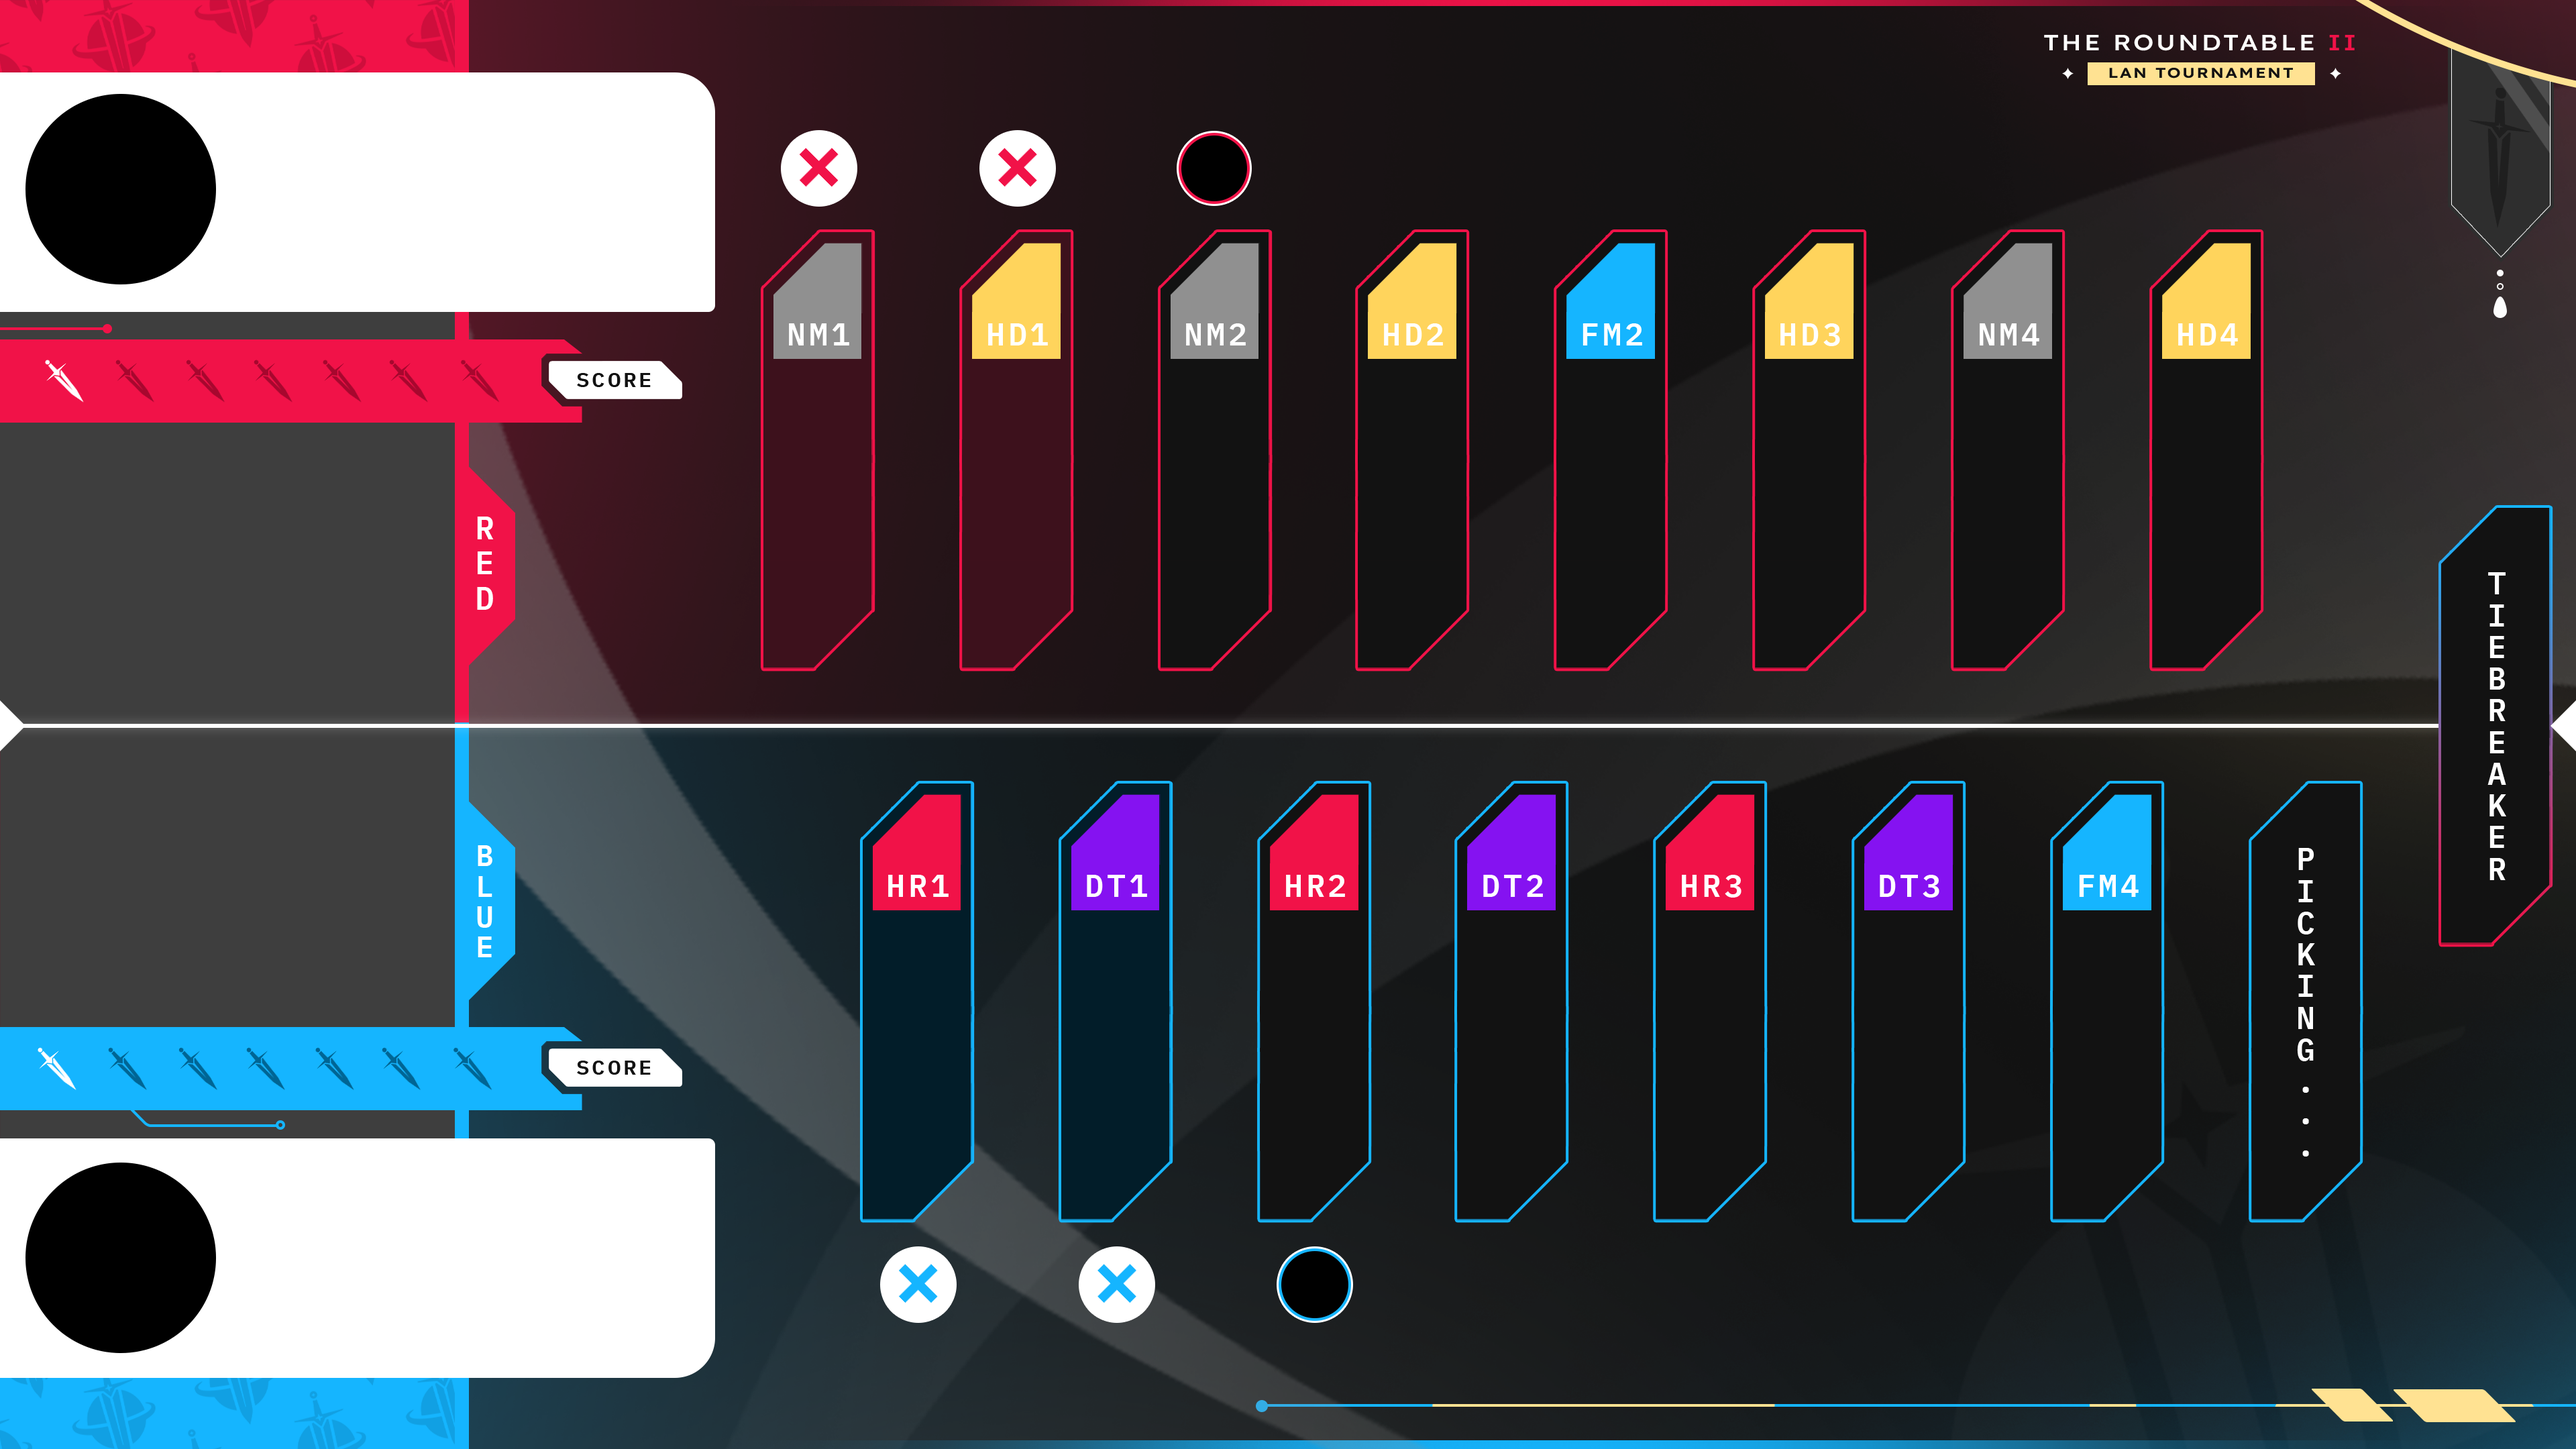
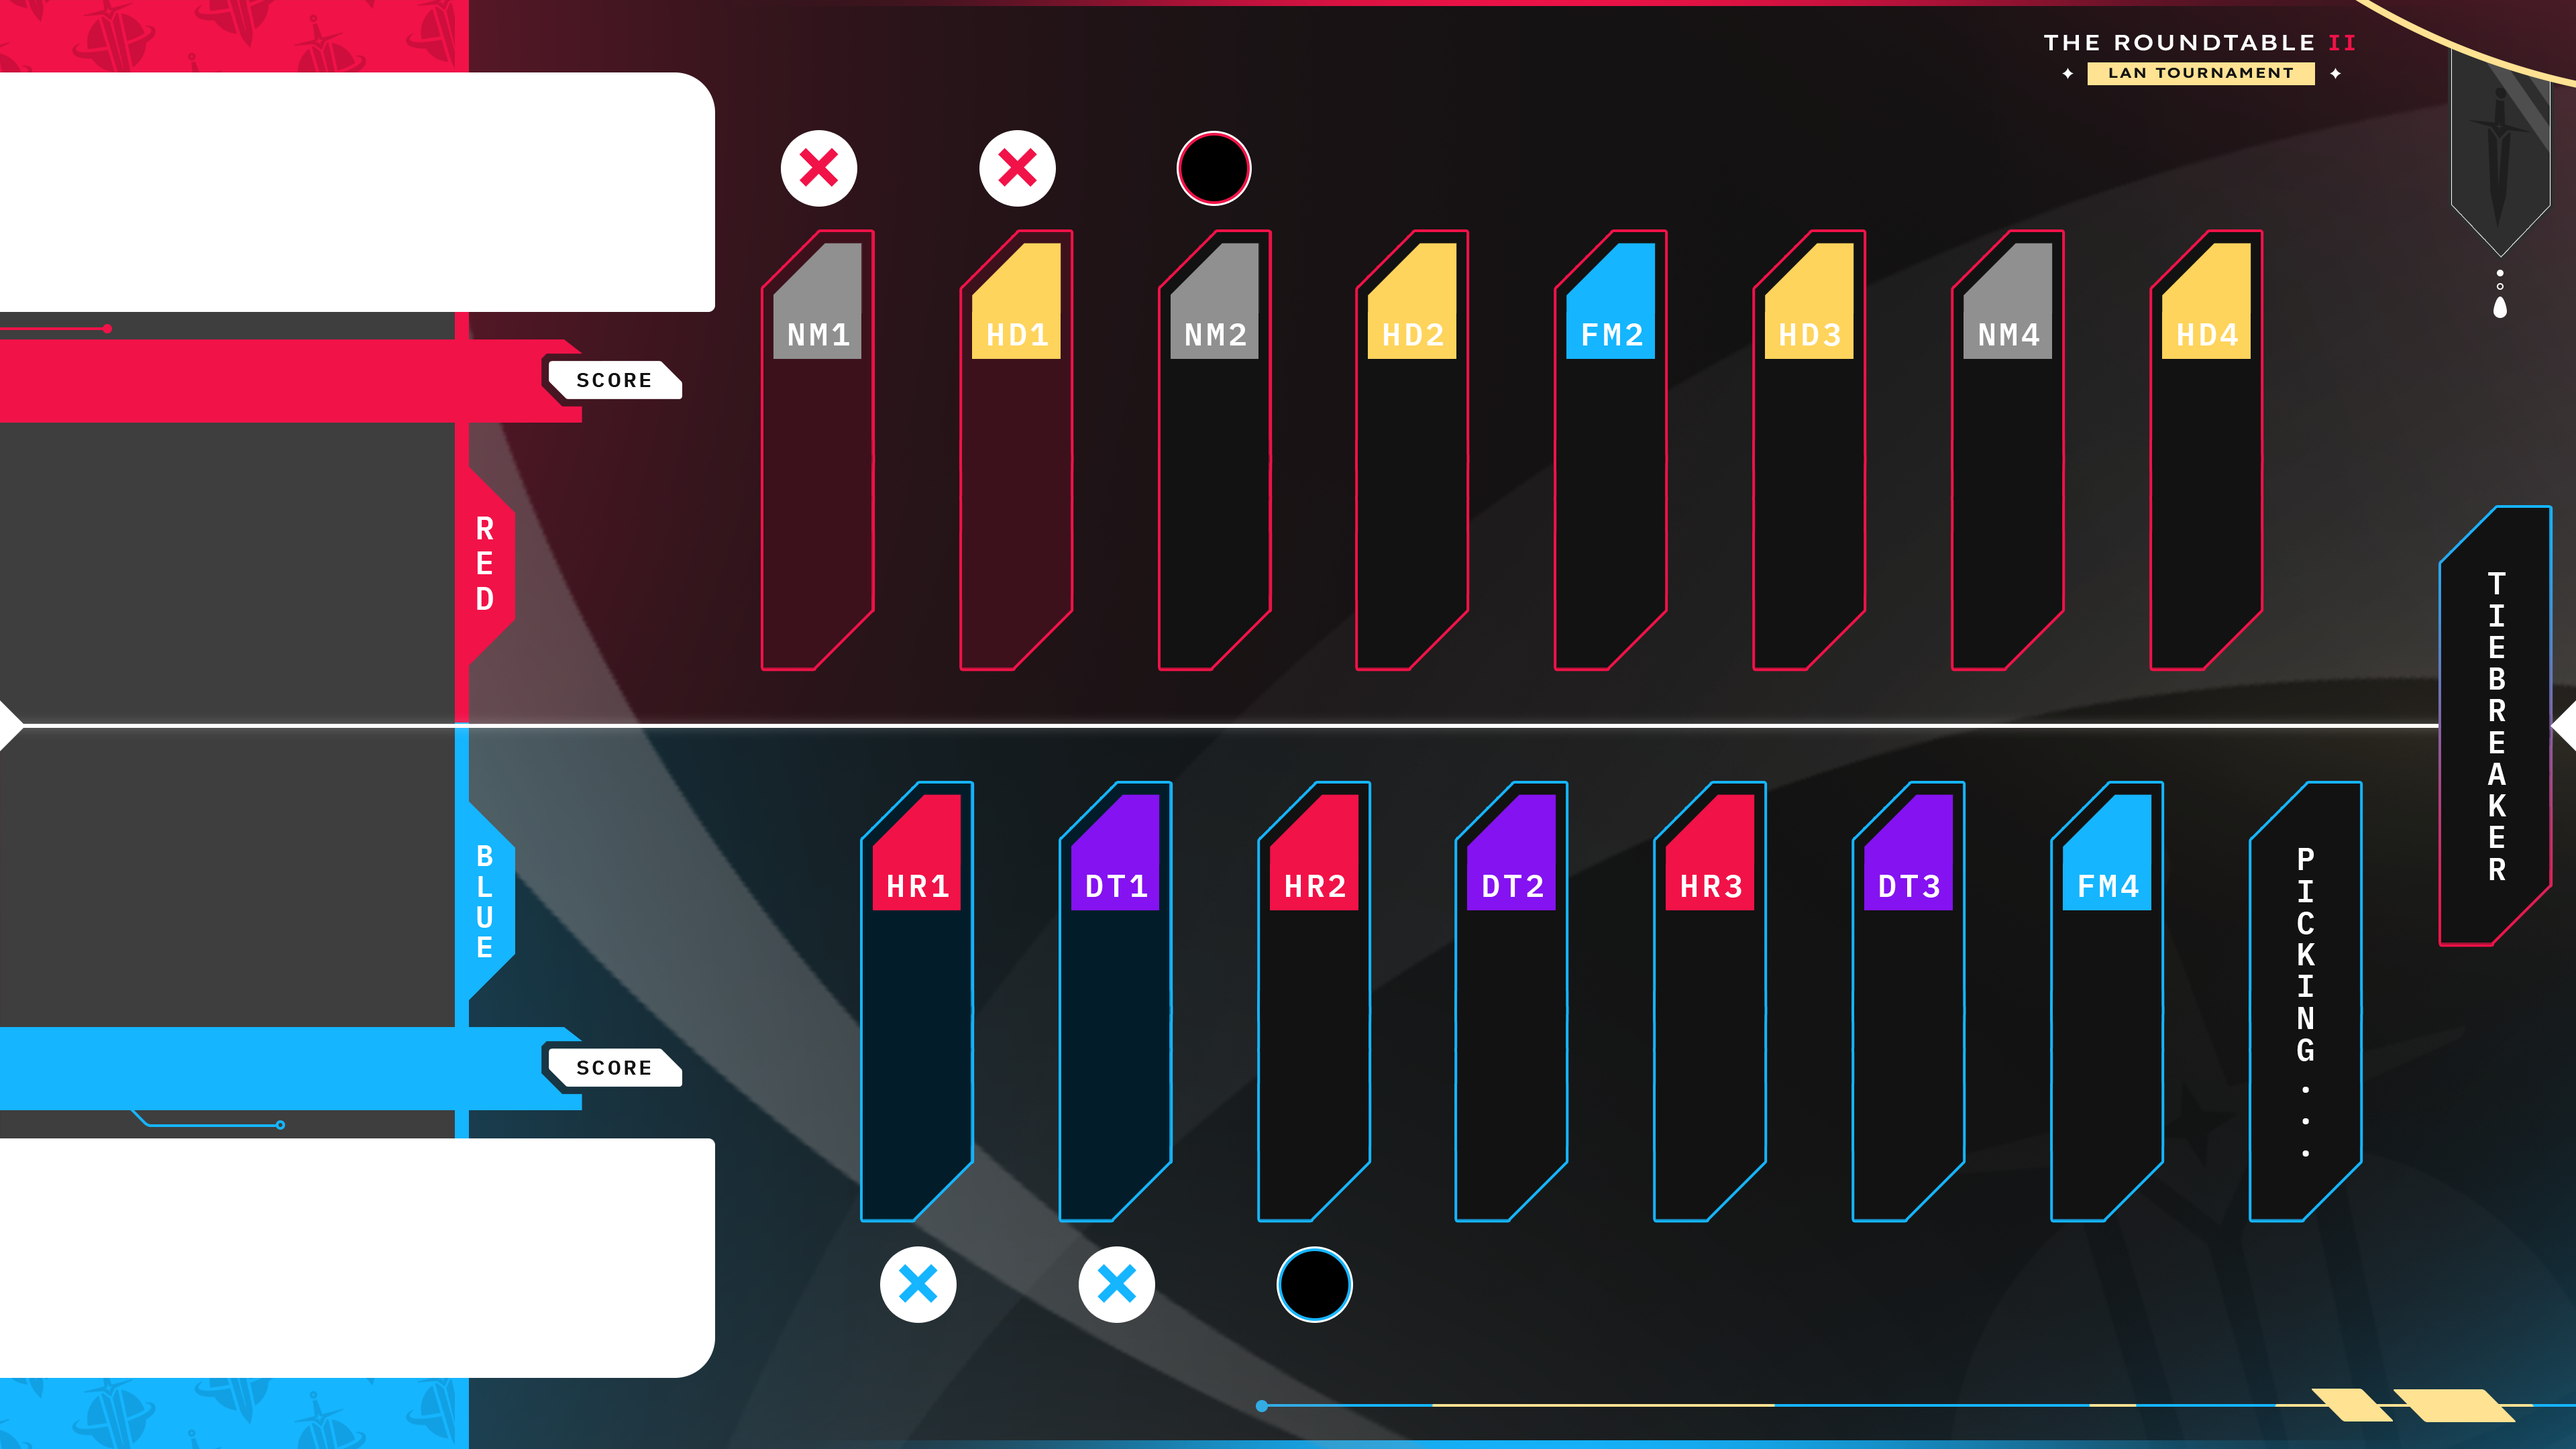
Style Match Scores

diff --git a/poolsandpicks/index.html b/poolsandpicks/index.html
@@ -14,8 +14,9 @@
     <div id="main">
         <!-- Left side -->
         <section id="leftSide">
-            <!-- Top Card -->
+            <!-- Top Side -->
             <section id="leftSideTop">
+                <!-- Player Card -->
                 <div class="playerCard" id="playerCardRed">
                     <img class="playerCardProfilePicture" src="https://a.ppy.sh/12455868">
                     <div class="playerCardStartLeft playerCardPlayerName" id="playerCardPlayerNameRed">[PLAYER]</div>
@@ -36,9 +37,24 @@
                         <div id="redFirstBanText">FIRST BAN</div>
                     </section>
                 </div>
+                <!-- Match Score -->
+                <div class="matchScoreSection" id="matchScoreRed">
+                    <div class="matchScoreContainer" id="matchScoreContainerRed">
+                        <div class="matchScores">
+                            <img class="matchScoreSword" src="static/whiteSword.png">
+                            <img class="matchScoreSword" src="static/whiteSword.png">
+                            <img class="matchScoreSword" src="static/whiteSword.png">
+                            <img class="matchScoreSword" src="static/whiteSword.png">
+                            <img class="matchScoreSword" src="static/whiteSword.png">
+                            <img class="matchScoreSword" src="static/whiteSword.png">
+                            <img class="matchScoreSword" src="static/whiteSword.png">
+                        </div>
+                    </div>
+                </div>
             </section>
-            <!-- Bottom card -->
+            <!-- Bottom Side -->
             <section id="leftSideBottom">
+                <!-- Player Card -->
                 <div class="playerCard" id="playerCardBlue">
                     <img class="playerCardProfilePicture" src="https://a.ppy.sh/12455868">
                     <div class="playerCardStartLeft playerCardPlayerName" id="playerCardPlayerNameBlue">[PLAYER]</div>
@@ -57,6 +73,20 @@
                         <div class="firstPickText" id="blueFirstPickText">FIRST PICK</div>
                         <div id="blueFirstBanText">FIRST BAN</div>
                     </section>
+                </div>
+                <!-- Match Score -->
+                <div class="matchScoreSection" id="matchScoreBlue">
+                    <div class="matchScoreContainer" id="matchScoreContainerBlue">
+                        <div class="matchScores">
+                            <img class="matchScoreSword" src="static/whiteSword.png">
+                            <img class="matchScoreSword" src="static/whiteSword.png">
+                            <img class="matchScoreSword" src="static/whiteSword.png">
+                            <img class="matchScoreSword" src="static/whiteSword.png">
+                            <img class="matchScoreSword" src="static/whiteSword.png">
+                            <img class="matchScoreSword" src="static/whiteSword.png">
+                            <img class="matchScoreSword" src="static/whiteSword.png">
+                        </div>
+                    </div>
                 </div>
             </section>
         </section>

diff --git a/poolsandpicks/css/style.css b/poolsandpicks/css/style.css
@@ -83,3 +83,20 @@
 #redFirstBanText { color: var(--redPlayerCardColour); }
 #blueFirstPickText { color: var(--bluePlayerCardColour); }
 #blueFirstBanText { color: var(--grayPickBanTextColour); }
+
+/* Match Score Section */
+.matchScoreSection {
+    position: absolute;
+    width: 510px; height: 62px;
+}
+#matchScoreRed { top: 253px; }
+#matchScoreBlue { bottom: 252.5px; }
+.matchScoreContainer {
+    width: 434px; height: inherit;
+    clip-path: polygon(0% 0%, 0% 100%, 100% 100%, 100% 17%, 97% 0%);
+}
+.matchScores {
+    position: absolute; top: 15px; left: 33px;
+    display: flex;
+}
+.matchScoreSword { width: 28px; height: 30px; margin-right: 24px; }
